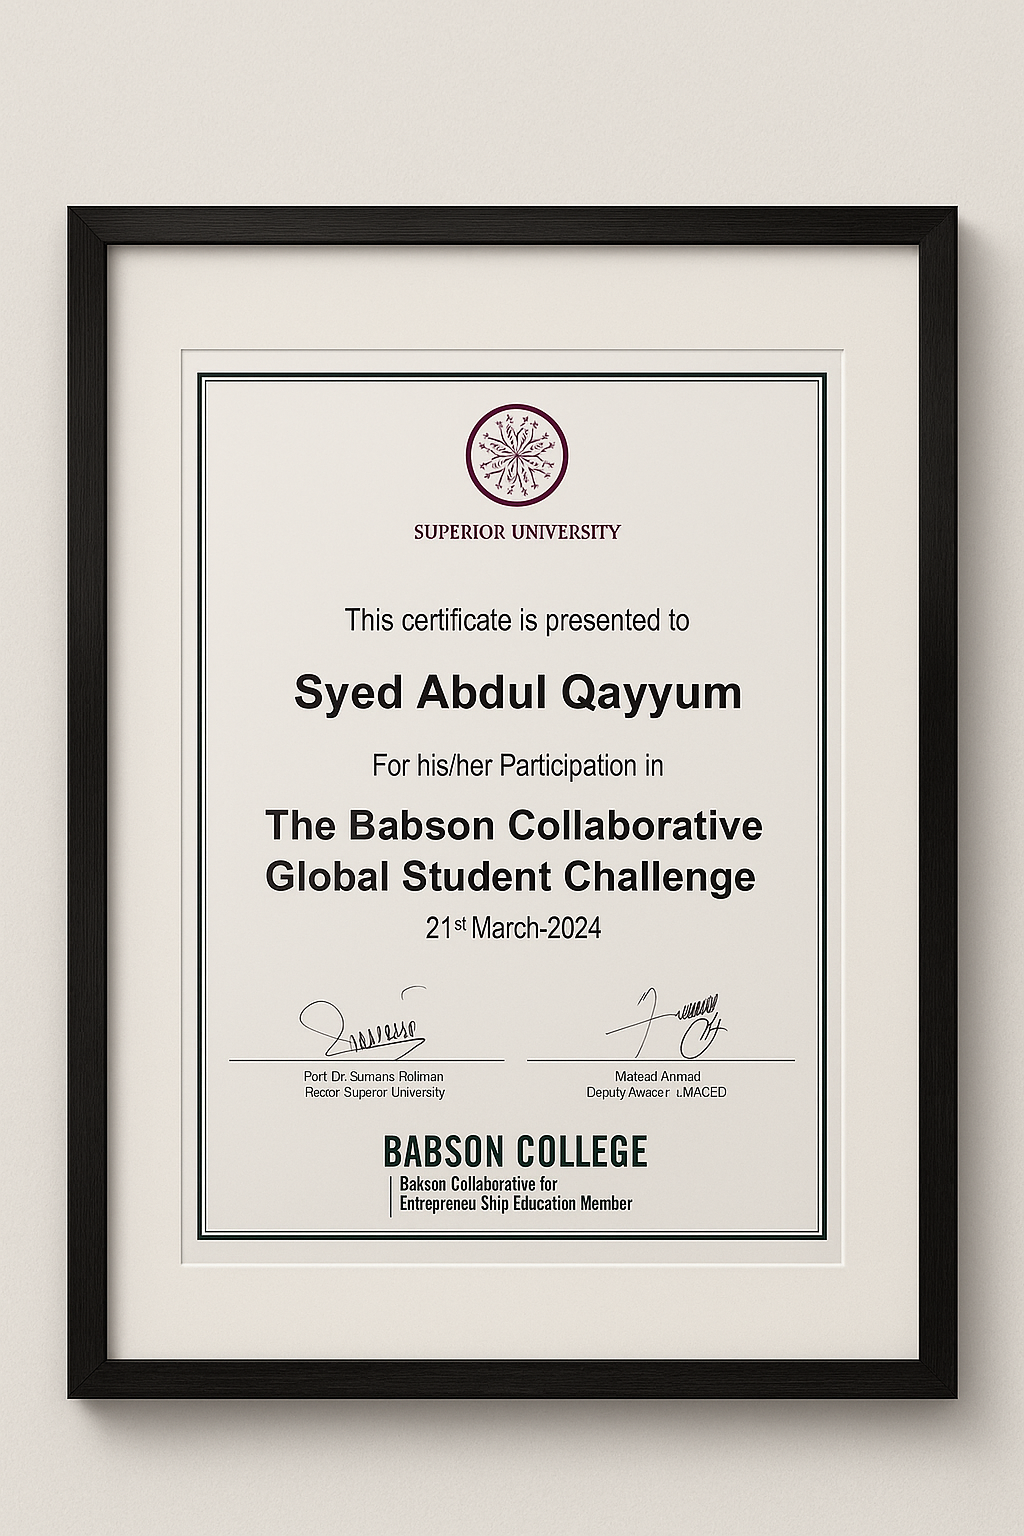
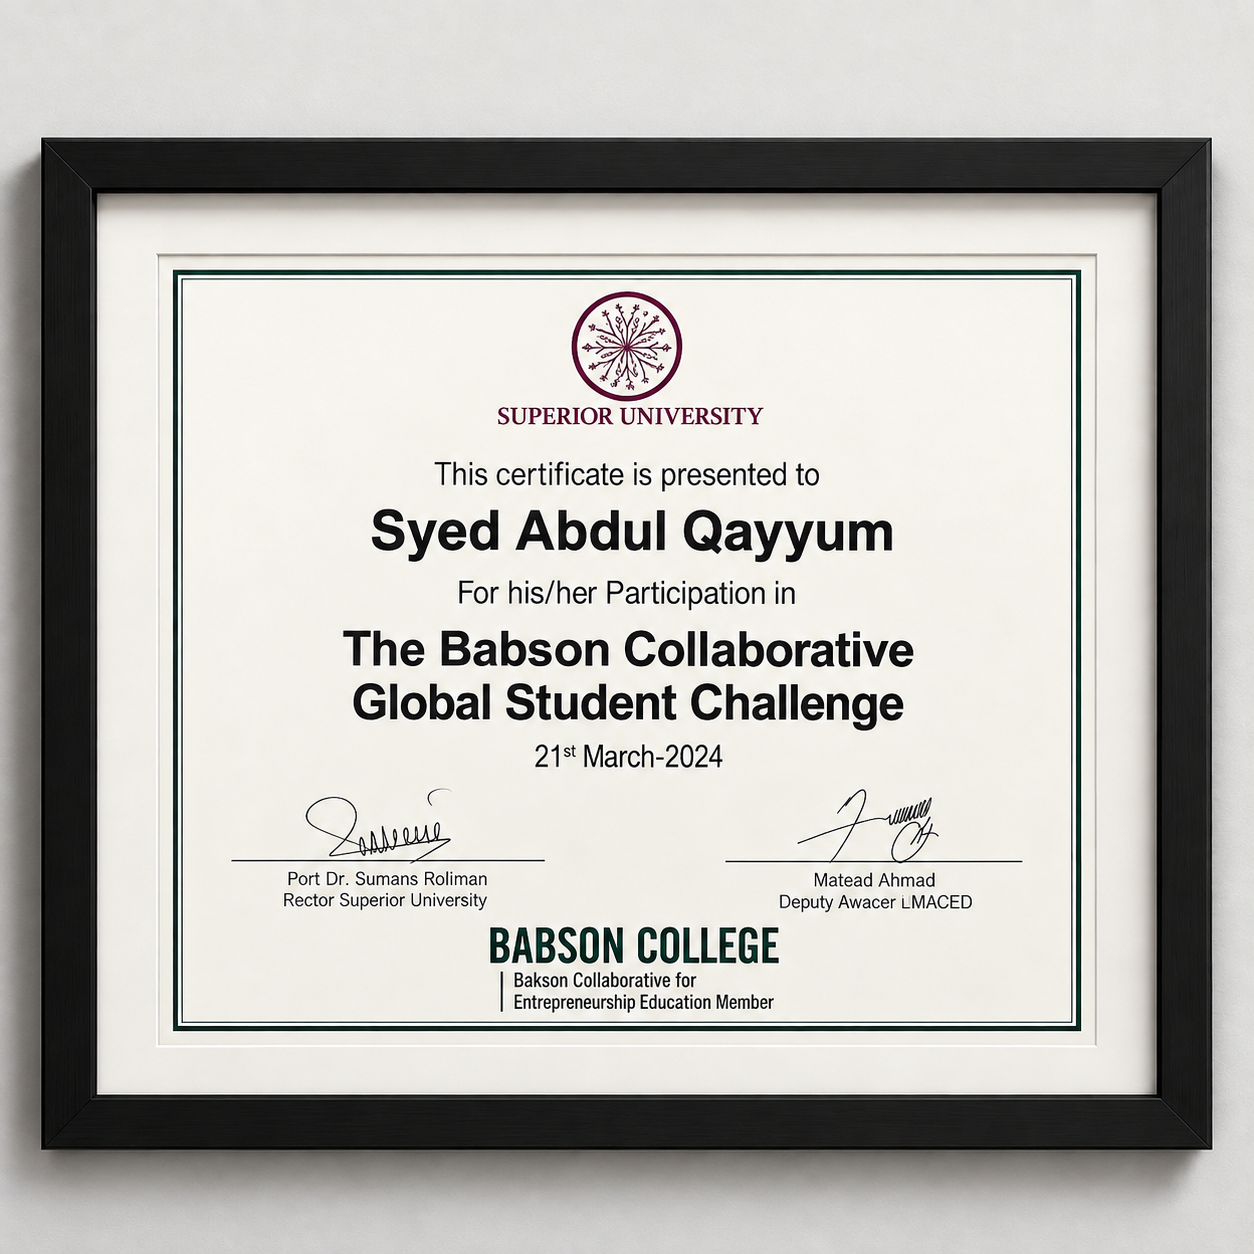
Add project filter tabs and uniform certificate sizing
- Projects: replace stacked sections with category filter tabs
  (Full Stack Web Based, Make.com, n8n, UI/UX Projects); show only the
  active category with pagination; brand-consistent active tab styling
- Certificates: display all (now square) certs at one uniform size,
  centered, with no double frame

diff --git a/src/components/Projects.tsx b/src/components/Projects.tsx
@@ -28,7 +28,9 @@ const categoryColors = {
 const sections = [
   {
     id: 'web-projects',
-    title: 'Web-Based Projects',
+    title: 'Full Stack Web-Based Projects',
+    tabLabel: 'Full Stack Web Based Projects',
+    icon: Code,
     tagline:
       'Modern, responsive, and scalable applications built with React, Vite, and Tailwind CSS.',
     filter: 'web-app',
@@ -36,23 +38,29 @@ const sections = [
   {
     id: 'make-projects',
     title: 'Make.com Automation Projects',
+    tabLabel: 'Make.com Projects',
+    icon: Zap,
     tagline:
       'Make.com scenarios that run the CRM, content, SEO/AEO/GEO, and digital-marketing analytics for real businesses — fully automated.',
     filter: 'make',
   },
   {
-    id: 'uiux-projects',
-    title: 'UI/UX Design Projects',
-    tagline:
-      'Creative and user-centered design projects crafted in Figma and Adobe XD.',
-    filter: 'ui-design',
-  },
-  {
     id: 'n8n-projects',
     title: 'N8N Automation Projects',
+    tabLabel: 'n8n Projects',
+    icon: Workflow,
     tagline:
       'Automations and workflows built with N8N to simplify processes and save time.',
     filter: 'n8n',
+  },
+  {
+    id: 'uiux-projects',
+    title: 'UI/UX Design Projects',
+    tabLabel: 'UI/UX Projects',
+    icon: Palette,
+    tagline:
+      'Creative and user-centered design projects crafted in Figma and Adobe XD.',
+    filter: 'ui-design',
   },
 ];
 
@@ -300,6 +308,7 @@ const ProjectSection = ({
 const Projects = () => {
   const [selectedProject, setSelectedProject] = useState<Project | null>(null);
   const [isModalOpen, setIsModalOpen] = useState(false);
+  const [activeFilter, setActiveFilter] = useState(sections[0].filter);
 
   const openProjectModal = (project: Project) => {
     setSelectedProject(project);
@@ -311,8 +320,17 @@ const Projects = () => {
     setSelectedProject(null);
   };
 
+  const activeSection = sections.find((s) => s.filter === activeFilter) ?? sections[0];
+
+  const selectFilter = (filter: string) => {
+    setActiveFilter(filter);
+    document
+      .getElementById('projects')
+      ?.scrollIntoView({ behavior: 'smooth', block: 'start' });
+  };
+
   return (
-    <section id="projects" className="py-10 sm:py-14 md:py-20 relative">
+    <section id="projects" className="py-10 sm:py-14 md:py-20 relative scroll-mt-16">
       <div className="container mx-auto px-4 sm:px-6 lg:px-8">
         {/* Global Section Heading */}
         <motion.div
@@ -320,7 +338,7 @@ const Projects = () => {
           whileInView={{ opacity: 1, y: 0 }}
           transition={{ duration: 0.8 }}
           viewport={{ once: true }}
-          className="text-center mb-10 sm:mb-14 lg:mb-20"
+          className="text-center mb-8 sm:mb-10 lg:mb-12"
         >
           <h2 className="text-2xl xs:text-3xl sm:text-4xl lg:text-5xl font-bold mb-3 sm:mb-4 lg:mb-6">
             <span className="hero-text">Featured Projects</span>
@@ -330,14 +348,41 @@ const Projects = () => {
           </p>
         </motion.div>
 
-        {sections.map((section, secIndex) => (
-          <ProjectSection
-            key={section.id}
-            section={section}
-            secIndex={secIndex}
-            onOpen={openProjectModal}
-          />
-        ))}
+        {/* Filter Tabs */}
+        <motion.div
+          initial={{ opacity: 0, y: 20 }}
+          whileInView={{ opacity: 1, y: 0 }}
+          transition={{ duration: 0.6 }}
+          viewport={{ once: true }}
+          className="flex flex-wrap justify-center gap-2 sm:gap-3 mb-10 sm:mb-12 lg:mb-16"
+        >
+          {sections.map((section) => {
+            const Icon = section.icon;
+            const isActive = section.filter === activeFilter;
+            return (
+              <button
+                key={section.filter}
+                onClick={() => selectFilter(section.filter)}
+                className={`flex items-center gap-1.5 sm:gap-2 rounded-full border px-3 sm:px-5 py-2 sm:py-2.5 text-xs sm:text-sm font-medium transition-all duration-300 ${
+                  isActive
+                    ? 'bg-primary text-primary-foreground border-primary glow-primary scale-[1.03]'
+                    : 'glass border-border/50 text-muted-foreground hover:text-foreground hover:border-primary/40'
+                }`}
+              >
+                <Icon className="w-3.5 h-3.5 sm:w-4 sm:h-4 flex-shrink-0" />
+                <span>{section.tabLabel}</span>
+              </button>
+            );
+          })}
+        </motion.div>
+
+        {/* Active category (remounts on change to reset pagination + animate in) */}
+        <ProjectSection
+          key={activeSection.filter}
+          section={activeSection}
+          secIndex={0}
+          onOpen={openProjectModal}
+        />
 
         {/* Project Detail Modal */}
         <ProjectModal

diff --git a/src/components/Certifications.tsx b/src/components/Certifications.tsx
@@ -6,7 +6,6 @@ import {
   CarouselNext,
   CarouselPrevious,
 } from '@/components/ui/carousel';
-import { Card, CardContent } from '@/components/ui/card';
 import Autoplay from 'embla-carousel-autoplay';
 import { useCallback } from 'react';
 
@@ -73,25 +72,19 @@ const Certifications = () => {
               {certificates.map((cert) => (
                 <CarouselItem key={cert.id} className="basis-full">
                   <motion.div
-                    initial={{ opacity: 0, scale: 0.9 }}
+                    initial={{ opacity: 0, scale: 0.95 }}
                     whileInView={{ opacity: 1, scale: 1 }}
-                    transition={{ delay: 0.3 }}
+                    transition={{ delay: 0.2 }}
                     viewport={{ once: true }}
-                    className="flex justify-center px-1 sm:px-2 lg:px-4"
+                    className="flex items-center justify-center px-2 sm:px-4"
                   >
-                    <Card className="glass hover:shadow-2xl transition-all duration-500 group hover:scale-[1.01] interactive w-fit max-w-full mx-auto">
-                      <CardContent className="p-3 sm:p-5 lg:p-8 flex items-center justify-center">
-                        {/* Picture frame that hugs each certificate and stays centered */}
-                        <div className="w-fit max-w-full mx-auto rounded-lg border-4 sm:border-[6px] lg:border-8 border-gray-900 bg-[#e4dcd4] p-1.5 sm:p-2 shadow-xl">
-                          <img
-                            src={cert.image}
-                            alt={`Certificate ${cert.id}`}
-                            loading="lazy"
-                            className="block w-auto h-auto max-w-full max-h-[48vh] sm:max-h-[58vh] lg:max-h-[560px] object-contain rounded-sm mx-auto"
-                          />
-                        </div>
-                      </CardContent>
-                    </Card>
+                    {/* All certificates are square and already framed — show them at one uniform size */}
+                    <img
+                      src={cert.image}
+                      alt={`Certificate ${cert.id}`}
+                      loading="lazy"
+                      className="w-full max-w-[280px] xs:max-w-[340px] sm:max-w-[440px] md:max-w-[500px] lg:max-w-[560px] aspect-square object-contain rounded-xl shadow-2xl mx-auto transition-transform duration-500 hover:scale-[1.02]"
+                    />
                   </motion.div>
                 </CarouselItem>
               ))}
